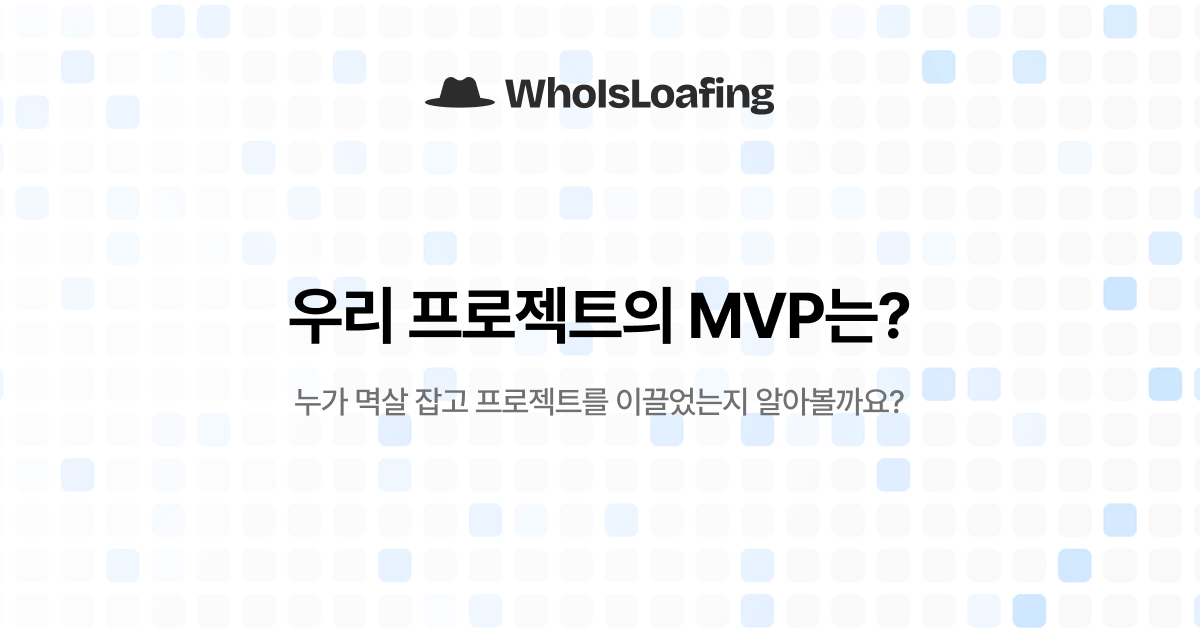
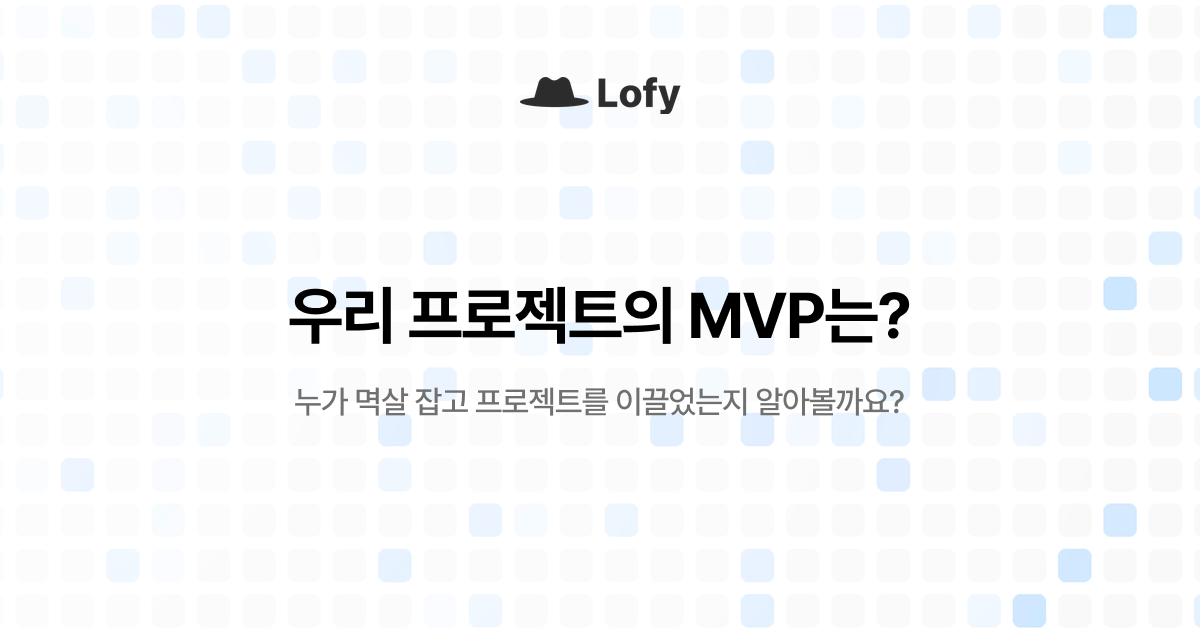
feat: 서비스 이름을 Lofy로 바꾸기

Changed region(s): [[0.3392, 0.1206, 0.6475, 0.181], [0.8325, 0.0603, 0.8942, 0.1508], [0.7708, 0.0603, 0.8017, 0.1508]]

diff --git a/index.html b/index.html
@@ -3,13 +3,13 @@
   <head>
     <meta charset="UTF-8" />
     <meta name="viewport" content="width=device-width, initial-scale=1.0, viewport-fit=cover" />
-    <title>WhoIsLoafing</title>
+    <title>Lofy</title>
     <meta name="description" content="GitHub 레포 주소만 넣으면 누가 얼마나 기여했고 어떤 기능을 맡았는지 대화로 알려드려요." />
     <link rel="canonical" href="https://whoisloafing.hidly.dev/" />
     <!-- 카카오톡, 디스코드, 슬랙 같은 곳에 링크를 붙였을 때 뜨는 미리보기 카드 -->
     <meta property="og:type" content="website" />
-    <meta property="og:site_name" content="WhoIsLoafing" />
-    <meta property="og:title" content="WhoIsLoafing, 우리 프로젝트의 MVP는?" />
+    <meta property="og:site_name" content="Lofy" />
+    <meta property="og:title" content="Lofy, 우리 프로젝트의 MVP는?" />
     <meta property="og:description" content="GitHub 레포 주소만 넣으면 누가 얼마나 기여했고 어떤 기능을 맡았는지 대화로 알려드려요." />
     <meta property="og:url" content="https://whoisloafing.hidly.dev/" />
     <meta property="og:image" content="https://whoisloafing.hidly.dev/og.png" />
@@ -18,7 +18,7 @@
     <meta property="og:locale" content="ko_KR" />
     <meta property="og:locale:alternate" content="en_US" />
     <meta name="twitter:card" content="summary_large_image" />
-    <meta name="twitter:title" content="WhoIsLoafing, 우리 프로젝트의 MVP는?" />
+    <meta name="twitter:title" content="Lofy, 우리 프로젝트의 MVP는?" />
     <meta name="twitter:description" content="GitHub 레포 주소만 넣으면 누가 얼마나 기여했고 어떤 기능을 맡았는지 대화로 알려드려요." />
     <meta name="twitter:image" content="https://whoisloafing.hidly.dev/og.png" />
     <link rel="icon" type="image/svg+xml" href="/favicon.svg" />

diff --git a/src/components/AppLogin.tsx b/src/components/AppLogin.tsx
@@ -18,7 +18,7 @@ const TEXT = messages({
     invalid: '앱 로그인 주소가 올바르지 않아요.',
     invalidHint: '앱에서 브라우저로 로그인을 다시 눌러 주세요.',
     sent: '연결되었습니다',
-    title: (name: string) => `${name ? `${name}으로 ` : ''}WhoIsLoafing 앱에서 계속합니다`,
+    title: (name: string) => `${name ? `${name}으로 ` : ''}Lofy 앱에서 계속합니다`,
     sentBody: '앱이 실행되면 이 브라우저는 닫아도 괜찮아요.',
     currentAccount: '지금 로그인한 계정',
     working: '처리 중',
@@ -33,7 +33,7 @@ const TEXT = messages({
     invalid: 'This app sign-in link is invalid.',
     invalidHint: 'Click Sign in with browser in the app again.',
     sent: 'Connected',
-    title: (name: string) => `Continue in the WhoIsLoafing app${name ? ` as ${name}` : ''}`,
+    title: (name: string) => `Continue in the Lofy app${name ? ` as ${name}` : ''}`,
     sentBody: 'Once the app opens, you can close this browser window.',
     currentAccount: 'Your current account',
     working: 'Working',
@@ -108,7 +108,7 @@ export function AppLogin({ onCancel }: { onCancel: () => void }) {
     <main className="flex flex-1 overflow-y-auto">
       <div className="m-auto w-full max-w-sm px-5 pt-24 pb-16">
         <div className="animate-rise rounded-3xl border border-gray-200 bg-white p-6 sm:p-7">
-          <img src="/logo.svg" alt="WhoIsLoafing" width={3403} height={367} draggable={false} className="h-[14px] w-auto" />
+          <img src="/logo.svg" alt="Lofy" width={1592} height={367} draggable={false} className="h-[14px] w-auto" />
 
           <h1 className="mt-6 break-keep text-[20px] font-semibold leading-snug text-gray-900">
             {sent ? text.sent : text.title(name)}

diff --git a/src/components/Feedback.tsx b/src/components/Feedback.tsx
@@ -25,7 +25,7 @@ const TEXT = messages({
     bugFailed: '신고를 보내지 못했어요. 잠시 뒤에 다시 시도해 주세요.',
     bugDone: '버그 신고가 접수되었습니다. 불편을 겪지 않도록 빠른 시일 내로 해결하겠습니다.',
     bugTitle: '버그 신고',
-    bugNotice: '이 보고서에는 귀하의 설명과 현재 세션 기록이 포함됩니다. 관련 문제를 디버그하고 WhoIsLoafing을 개선하기 위해 이 정보를 사용할 수 있습니다.',
+    bugNotice: '이 보고서에는 귀하의 설명과 현재 세션 기록이 포함됩니다. 관련 문제를 디버그하고 Lofy를 개선하기 위해 이 정보를 사용할 수 있습니다.',
     bugPlaceholder: '문제를 설명해 주세요',
     bugLabel: '문제 설명',
     cancel: '취소',
@@ -48,7 +48,7 @@ const TEXT = messages({
     bugFailed: "Couldn't send the report. Please try again in a moment.",
     bugDone: "Your bug report has been received. We'll fix it as soon as we can.",
     bugTitle: 'Report a bug',
-    bugNotice: 'This report includes your description and the current session record. We may use this information to debug the issue and improve WhoIsLoafing.',
+    bugNotice: 'This report includes your description and the current session record. We may use this information to debug the issue and improve Lofy.',
     bugPlaceholder: 'Describe the problem',
     bugLabel: 'Problem description',
     cancel: 'Cancel',

diff --git a/src/lib/analytics.ts b/src/lib/analytics.ts
@@ -38,22 +38,22 @@ export function track(event: string, params: Params = {}): void {
 }
 
 const PAGE_TITLES = {
-  home: 'WhoIsLoafing',
-  chat: 'WhoIsLoafing 분석',
-  shared_chat: 'WhoIsLoafing 공유된 분석',
-  articles: 'WhoIsLoafing 아티클',
-  article: 'WhoIsLoafing 아티클',
-  login: 'WhoIsLoafing 로그인',
-  signup: 'WhoIsLoafing 회원가입',
-  me: 'WhoIsLoafing 내 정보',
-  history: 'WhoIsLoafing 내 작업',
-  'app-login': 'WhoIsLoafing 앱 로그인',
-  deep: 'WhoIsLoafing 심층 분석',
-  portfolio: 'WhoIsLoafing 포트폴리오 만들기',
-  resume: 'WhoIsLoafing 이력서 만들기',
-  explore: 'WhoIsLoafing 탐색',
-  admin: 'WhoIsLoafing 관리자',
-  about: 'WhoIsLoafing 소개',
+  home: 'Lofy',
+  chat: 'Lofy 분석',
+  shared_chat: 'Lofy 공유된 분석',
+  articles: 'Lofy 아티클',
+  article: 'Lofy 아티클',
+  login: 'Lofy 로그인',
+  signup: 'Lofy 회원가입',
+  me: 'Lofy 내 정보',
+  history: 'Lofy 내 작업',
+  'app-login': 'Lofy 앱 로그인',
+  deep: 'Lofy 심층 분석',
+  portfolio: 'Lofy 포트폴리오 만들기',
+  resume: 'Lofy 이력서 만들기',
+  explore: 'Lofy 탐색',
+  admin: 'Lofy 관리자',
+  about: 'Lofy 소개',
 }
 
 type Screen = keyof typeof PAGE_TITLES

diff --git a/src/lib/meta.ts b/src/lib/meta.ts
@@ -5,7 +5,7 @@
 import { localizePath, messages, type Lang } from './i18n'
 
 export const SITE = 'https://whoisloafing.hidly.dev'
-export const SITE_TITLE = 'WhoIsLoafing'
+export const SITE_TITLE = 'Lofy'
 
 export interface PageMeta {
   /** 탭 제목 */
@@ -26,10 +26,10 @@ export const HOME_META = messages<PageMeta>({
   ko: {
     title: SITE_TITLE,
     description: 'GitHub 레포 주소만 넣으면 누가 얼마나 기여했고 어떤 기능을 맡았는지 대화로 알려드려요.',
-    ogTitle: 'WhoIsLoafing, 우리 프로젝트의 MVP는?',
+    ogTitle: 'Lofy, 우리 프로젝트의 MVP는?',
   },
   en: {
-    title: 'WhoIsLoafing - Who built what in your GitHub repo?',
+    title: 'Lofy - Who built what in your GitHub repo?',
     description: 'Analyze any GitHub repository to understand contributors, feature ownership, activity patterns, and team workflow.',
     ogTitle: 'Who built what in your GitHub repo?',
     ogDescription: 'Paste a repo link and get a clear breakdown of contribution, ownership, and teamwork.',

diff --git a/src/components/About.tsx b/src/components/About.tsx
@@ -160,7 +160,7 @@ export function About({ onHome }: Props) {
   return (
     <main ref={scrollRef} className="flex-1 overflow-x-hidden overflow-y-auto">
       <section className="mx-auto flex w-full max-w-2xl flex-col items-center px-6 pt-32 pb-20 text-center sm:pt-44 sm:pb-28">
-        <img src="/logo.svg" alt="WhoIsLoafing" width={3403} height={367} draggable={false} className="h-6 w-auto sm:h-7" />
+        <img src="/logo.svg" alt="Lofy" width={1592} height={367} draggable={false} className="h-6 w-auto sm:h-7" />
         <h1 className="mt-8 text-balance break-keep font-semibold leading-[1.2] tracking-[-0.03em] text-gray-900 text-[clamp(30px,6vw,56px)]">{text.title}</h1>
         <p className="mt-5 text-balance break-keep text-[14px] leading-relaxed text-gray-500 sm:text-[16px]">
           {text.lead}

diff --git a/src/components/Footer.tsx b/src/components/Footer.tsx
@@ -3,8 +3,8 @@ import { openBugReport, useFeedback } from '../lib/feedback'
 import { messages, useMessages } from '../lib/i18n'
 
 const TEXT = messages({
-  ko: { team: '숨은빚청년들 팀', bug: '버그 신고', rights: '© 2026 WhoIsLoafing. 모든 권리 보유.' },
-  en: { team: 'Made by Hidly', bug: 'Report a bug', rights: '© 2026 WhoIsLoafing' },
+  ko: { team: '숨은빚청년들 팀', bug: '버그 신고', rights: '© 2026 Lofy. 모든 권리 보유.' },
+  en: { team: 'Made by Hidly', bug: 'Report a bug', rights: '© 2026 Lofy' },
 })
 
 /** 메인 화면과 소개 화면 아래에 두는 줄이에요. 왼쪽에 팀 홈페이지 링크와 버그 신고, 오른쪽에 저작권 문구가 있어요. 자리는 쓰는 쪽에서 정해요. */

diff --git a/src/components/AppSidebar.tsx b/src/components/AppSidebar.tsx
@@ -347,7 +347,7 @@ export function AppSidebar({ activeChatId, page, refreshKey, onNew, onDeep, onPo
             }}
             className="inline-flex items-center"
           >
-            <img src="/logo.svg" alt="WhoIsLoafing" width={3403} height={367} draggable={false} className="h-[13px] w-auto translate-y-px" />
+            <img src="/logo.svg" alt="Lofy" width={1592} height={367} draggable={false} className="h-[13px] w-auto translate-y-px" />
           </a>
         </div>
       ) : (

diff --git a/src/components/Logo.tsx b/src/components/Logo.tsx
@@ -9,7 +9,7 @@ export function Logo({ onClick }: { onClick?: () => void }) {
       }}
       className="inline-flex items-center"
     >
-      <img src="/logo.svg" alt="WhoIsLoafing" width={3403} height={367} draggable={false} className="h-[14px] w-auto translate-y-px" />
+      <img src="/logo.svg" alt="Lofy" width={1592} height={367} draggable={false} className="h-[14px] w-auto translate-y-px" />
     </a>
   )
 }

diff --git a/src/components/AppGate.tsx b/src/components/AppGate.tsx
@@ -46,8 +46,8 @@ export function AppGate() {
       <div className="relative w-full max-w-xs text-center">
         <img
           src="/logo.svg"
-          alt="WhoIsLoafing"
-          width={3403}
+          alt="Lofy"
+          width={1592}
           height={367}
           draggable={false}
           className="mx-auto h-[22px] w-auto animate-rise"

diff --git a/src/components/MyPage.tsx b/src/components/MyPage.tsx
@@ -74,7 +74,7 @@ const TEXT = messages({
     unknownAddress: 'Unknown address',
     working: 'Working',
     more: 'Show more',
-    withdrawn: 'Your account has been deleted. Thanks for using WhoIsLoafing.',
+    withdrawn: 'Your account has been deleted. Thanks for using Lofy.',
     title: 'Account',
     account: 'Profile',
     name: 'Name',
